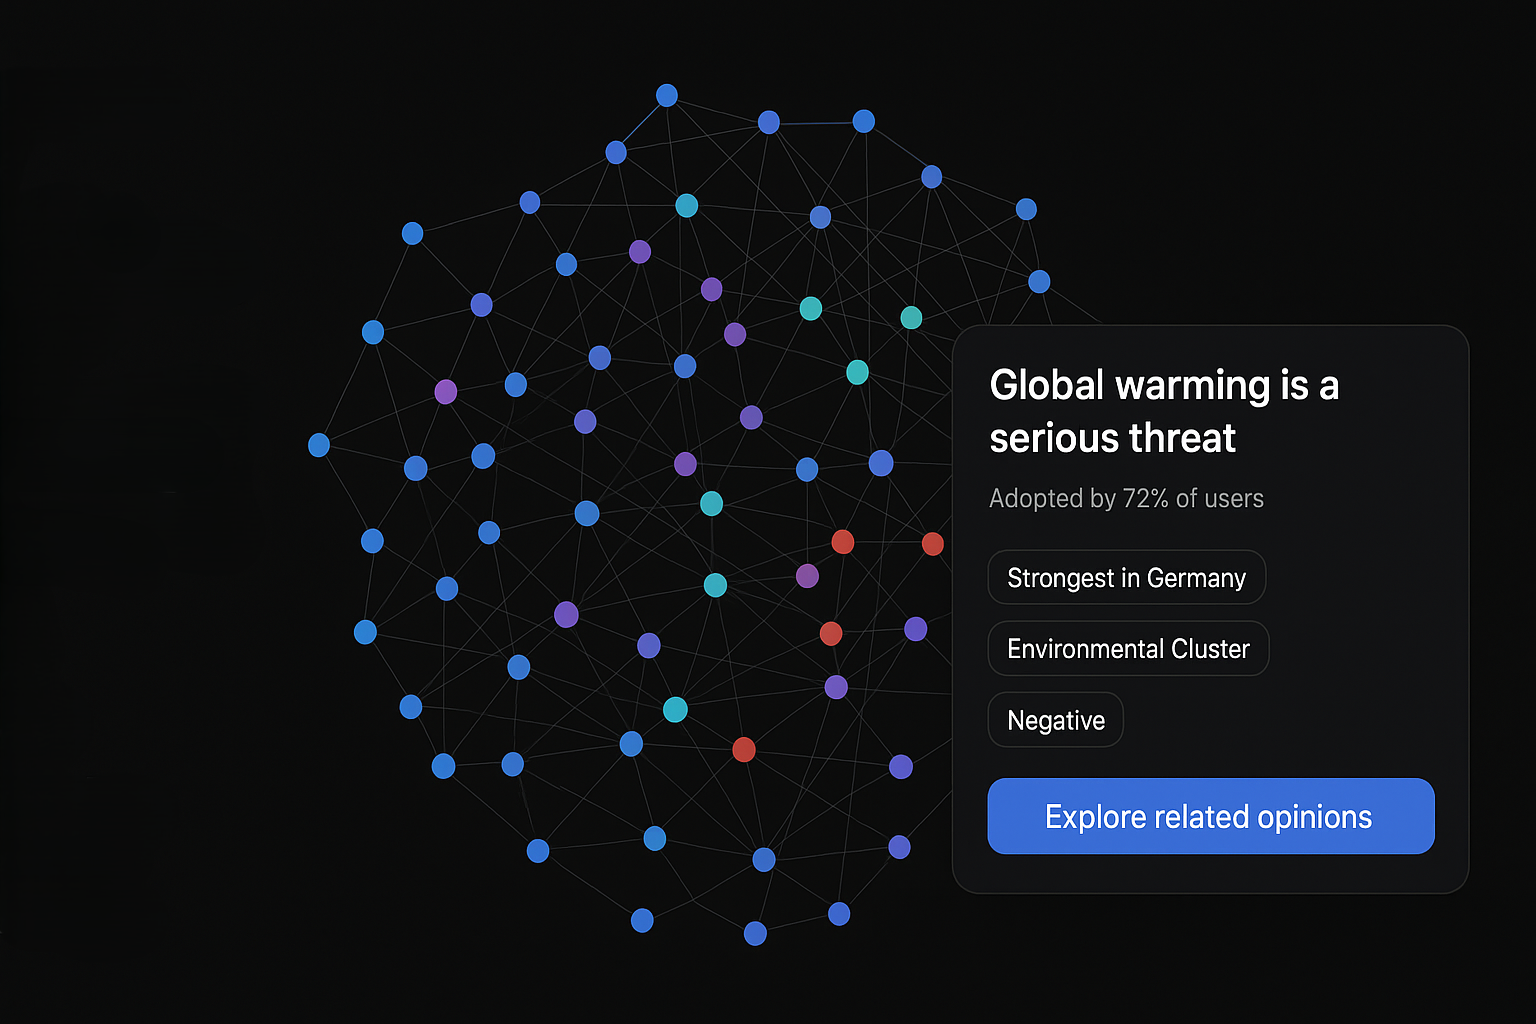
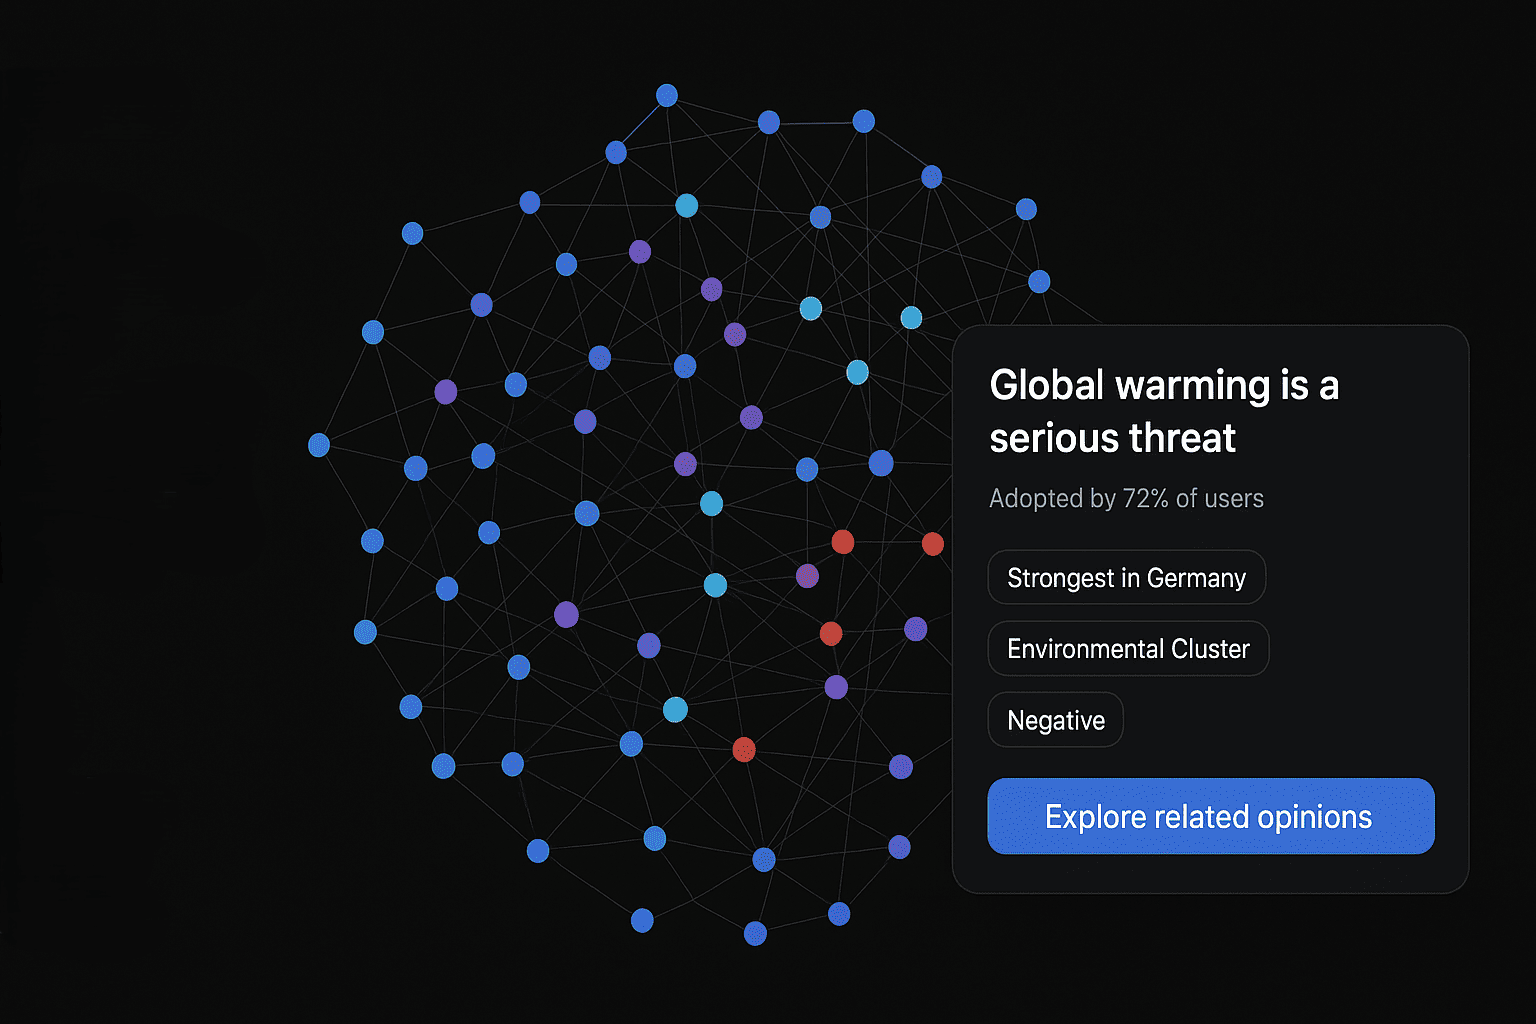
feat(landing): update branding

diff --git a/src/components/sections/faq/static.tsx b/src/components/sections/faq/static.tsx
@@ -1,6 +1,7 @@
 import { ReactNode } from "react";
 import Link from "next/link";
 
+import { APP_NAME } from "@/lib/constants";
 import { Section } from "../../ui/section";
 
 interface FAQItemProps {
@@ -18,25 +19,25 @@ export default function FAQ({
   title = "Questions && Answers",
   items = [
     {
-      question: "What is Boolean?",
+      question: `What is ${APP_NAME}?`,
       answer: (
         <>
           <p className="text-muted-foreground mb-4 max-w-[640px] text-balance">
-            Boolean is a digital hive mind that connects you with like-minded
-            thinkers. Opinions are more than posts — they’re data points
+            {APP_NAME} is a digital hive mind that connects you with like-minded
+            thinkers. Opinions are more than posts. They’re data points
             revealing collective beliefs.
           </p>
         </>
       ),
     },
     {
-      question: "Why use Boolean instead of traditional social media?",
+      question: `Why use ${APP_NAME} instead of traditional social media?`,
       answer: (
         <>
           <p className="text-muted-foreground mb-4 max-w-[640px] text-balance">
             Traditional social networks often fail at their core purpose:
             connecting people meaningfully. Most platforms chase likes,
-            followers, and endless scrolling. Boolean does one thing
+            followers, and endless scrolling. {APP_NAME} does one thing
             differently: it connects people on an opinion level, showing what
             people actually think rather than how loudly they can shout.
           </p>
@@ -44,15 +45,15 @@ export default function FAQ({
       ),
     },
     {
-      question: "How is Boolean different from polls or surveys?",
+      question: `How is ${APP_NAME} different from polls or surveys?`,
       answer: (
         <>
           <p className="text-muted-foreground mb-4 max-w-[640px] text-balance">
-            Surveys ask pre-set questions. Boolean flips this: anyone can post
+            Surveys ask pre-set questions. {APP_NAME} flips this: anyone can post
             an opinion, and others respond organically. Responses are aggregated
             into belief maps and insights, revealing how different groups think
-            — for example, US citizens vs Indian citizens or people in 2025 vs
-            people in 2030.
+            across groups, such as US citizens vs Indian citizens or people in
+            2025 vs people in 2030.
           </p>
         </>
       ),
@@ -62,7 +63,7 @@ export default function FAQ({
       answer: (
         <>
           <p className="text-muted-foreground mb-4 max-w-[640px] text-balance">
-            Yes. Boolean provides analytics that show how your views align with
+            Yes. {APP_NAME} provides analytics that show how your views align with
             different communities, regions, or the overall public mood. You can
             see exactly where you fit in the bigger picture.
           </p>
@@ -70,11 +71,11 @@ export default function FAQ({
       ),
     },
     {
-      question: "Does Boolean recommend people to follow?",
+      question: `Does ${APP_NAME} recommend people to follow?`,
       answer: (
         <>
           <p className="text-muted-foreground mb-4 max-w-[640px] text-balance">
-            Boolean recommends people based on shared beliefs and perspectives,
+            {APP_NAME} recommends people based on shared beliefs and perspectives,
             helping you connect with the thinkers who matter to you.
           </p>
         </>
@@ -85,22 +86,22 @@ export default function FAQ({
       answer: (
         <>
           <p className="text-muted-foreground mb-4 max-w-[640px] text-balance">
-            Every opinion becomes part of a living dataset. Boolean tracks
+            Every opinion becomes part of a living dataset. {APP_NAME} tracks
             shifts in sentiment, regional differences, and alignment across
-            groups. Your posts aren’t just content — they contribute to
+            groups. Your posts aren’t just content. They contribute to
             understanding collective thought patterns.
           </p>
         </>
       ),
     },
     {
-      question: "Who is Boolean for?",
+      question: `Who is ${APP_NAME} for?`,
       answer: (
         <>
           <p className="text-muted-foreground mb-4 max-w-[640px] text-balance">
-            Boolean is for anyone who wants to express, explore, and understand
-            opinions — from casual users debating ideas to researchers studying
-            social trends. If you believe opinions shape the world, Boolean lets
+            {APP_NAME} is for anyone who wants to express, explore, and understand
+            opinions, from casual users debating ideas to researchers studying
+            social trends. If you believe opinions shape the world, {APP_NAME} lets
             you see it happen in real time.
           </p>
         </>

diff --git a/src/app/page.tsx b/src/app/page.tsx
@@ -10,6 +10,7 @@ import Hero1 from "@/components/sections/hero/top-glow";
 import { Badge } from "@/components/ui/badge";
 import { Button } from "@/components/ui/button";
 import { Input } from "@/components/ui/input";
+import { APP_NAME } from "@/lib/constants";
 import Image from "next/image";
 import Features from "./feature9";
 import { useState } from "react";
@@ -25,14 +26,14 @@ export default function Home() {
         <div className="flex justify-center">
           <Image
             src="logo.svg"
-            alt="Mockup"
+            alt={APP_NAME}
             width={600}
             height={100}
             className="invert absolute top-0 z-50 opacity-20 px-12 pointer-events-none"
           />
           <Image
             src="logo.svg"
-            alt="Mockup"
+            alt={APP_NAME}
             width={600}
             height={100}
             className="invert absolute top-0 z-50 px-12 scale-[5] pointer-events-none opacity-0 md:opacity-2"
@@ -54,7 +55,7 @@ export default function Home() {
           //   </Badge>
           // }
           title=""
-          description="Social media sites collect oceans of data but keep the insights locked away. What if that power came back to you? Boolean gives you the analytics behind opinions — so you can make data-driven decisions."
+          description={`Social media sites collect oceans of data but keep the insights locked away. What if that power came back to you? ${APP_NAME} gives you the analytics behind opinions, so you can make data-driven decisions.`}
           // form={
           //   <>
           //     <iframe
@@ -118,7 +119,7 @@ export default function Home() {
             <div>
               <Image
                 src="hero.png"
-                alt="Mockup"
+                alt={`${APP_NAME} app mockup`}
                 width={1248}
                 height={765}
                 className="min-w-[30rem]"
@@ -150,7 +151,7 @@ export default function Home() {
           // imageDark={"/hero.png"}
           visual={<RippleIllustration />}
           title="Let Me Explain..."
-          description="Today’s social platforms are designed for sharing, posting, and reacting — but they rarely reveal what people truly believe. You scroll through endless posts, yet you have no way of knowing how many silently agree with a bold opinion, where genuine consensus ends and division begins, or how much insight gets lost beneath the noise of virality and engagement tactics. It’s time to look deeper and uncover the real pulse of collective belief."
+          description="Today’s social platforms are designed for sharing, posting, and reacting, but they rarely reveal what people truly believe. You scroll through endless posts, yet you have no way of knowing how many silently agree with a bold opinion, where genuine consensus ends and division begins, or how much insight gets lost beneath the noise of virality and engagement tactics. It’s time to look deeper and uncover the real pulse of collective belief."
         />
         <FeatureStickyRight
           imageDark={"/hero.png"}

diff --git a/src/app/layout.tsx b/src/app/layout.tsx
@@ -1,5 +1,6 @@
 import type { Metadata } from "next";
 import { Geist, Geist_Mono } from "next/font/google";
+import { APP_NAME } from "@/lib/constants";
 import "./globals.css";
 
 const geistSans = Geist({
@@ -13,8 +14,8 @@ const geistMono = Geist_Mono({
 });
 
 export const metadata: Metadata = {
-  title: "Boolean",
-  description: "Boolean is a microblogging platform built for opinions.",
+  title: APP_NAME,
+  description: `${APP_NAME} is a microblogging platform built for opinions.`,
 };
 
 export default function RootLayout({

diff --git a/src/components/ui/navigation.tsx b/src/components/ui/navigation.tsx
@@ -87,7 +87,7 @@ export default function Navigation({
       title: "Tabs",
       href: "/docs/primitives/tabs",
       description:
-        "A set of layered sections of content—known as tab panels—that are displayed one at a time.",
+        "A set of layered sections of content, known as tab panels, that are displayed one at a time.",
     },
     {
       title: "Tooltip",

diff --git a/next.config.ts b/next.config.ts
@@ -4,8 +4,8 @@ const isProd = process.env.NODE_ENV === "production";
 
 const nextConfig: NextConfig = {
   output: "export",
-  // assetPrefix: isProd ? "/boolean_landing/" : "",
-  // basePath: isProd ? "/boolean_landing" : "",
+  // assetPrefix: isProd ? "/boolgram-landing/" : "",
+  // basePath: isProd ? "/boolgram-landing" : "",
   images: {
     unoptimized: true,
   },

diff --git a/src/components/sections/bento-grid/3-rows-top.tsx b/src/components/sections/bento-grid/3-rows-top.tsx
@@ -39,7 +39,7 @@ export default function BentoGrid({
       title: "Design-first",
       description: (
         <p>
-          Each block and component is carfully crafted—not generated by AI—to
+          Each block and component is carfully crafted, not generated by AI, to
           give a unique look and feel AI would never come up with.
         </p>
       ),

diff --git a/src/lib/constants.ts b/src/lib/constants.ts
@@ -1,0 +1,1 @@
+export const APP_NAME = "boolgram";

diff --git a/README.md b/README.md
@@ -14,7 +14,7 @@ pnpm dev
 bun dev
 ```
 
-Open [http://localhost:3000](http://localhost:3000) with your browser to see the result.
+Open [http://localhost:3001](http://localhost:3001) with your browser to see the result.
 
 You can start editing the page by modifying `app/page.tsx`. The page auto-updates as you edit the file.
 
